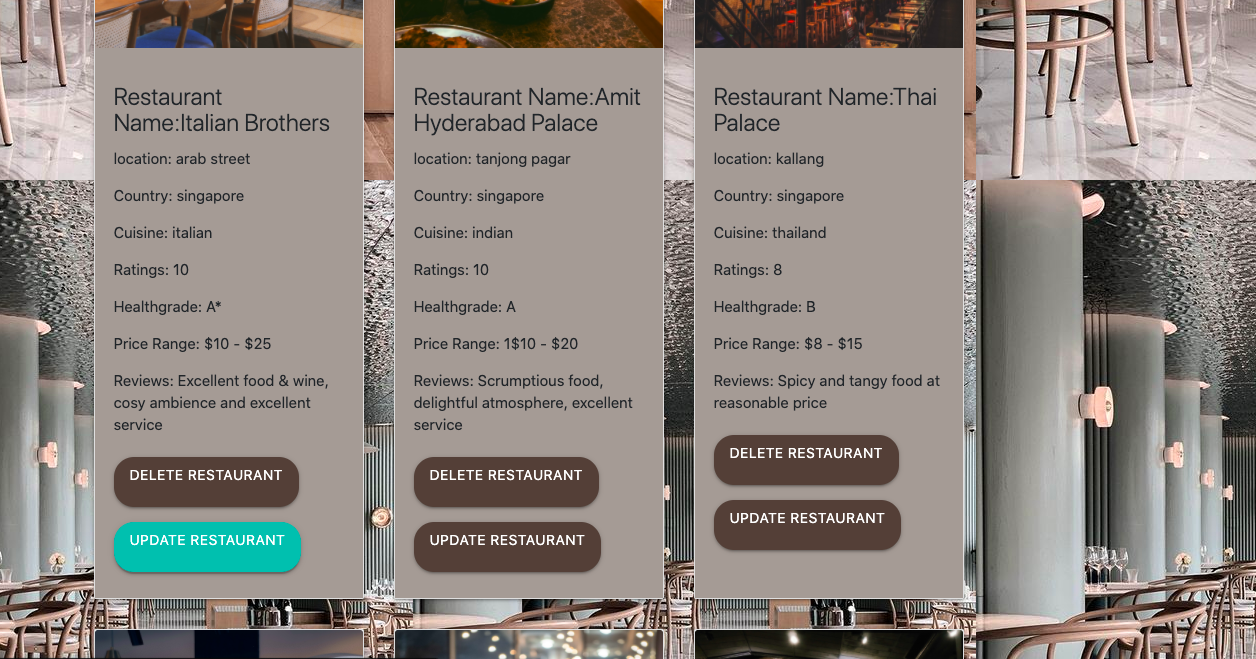
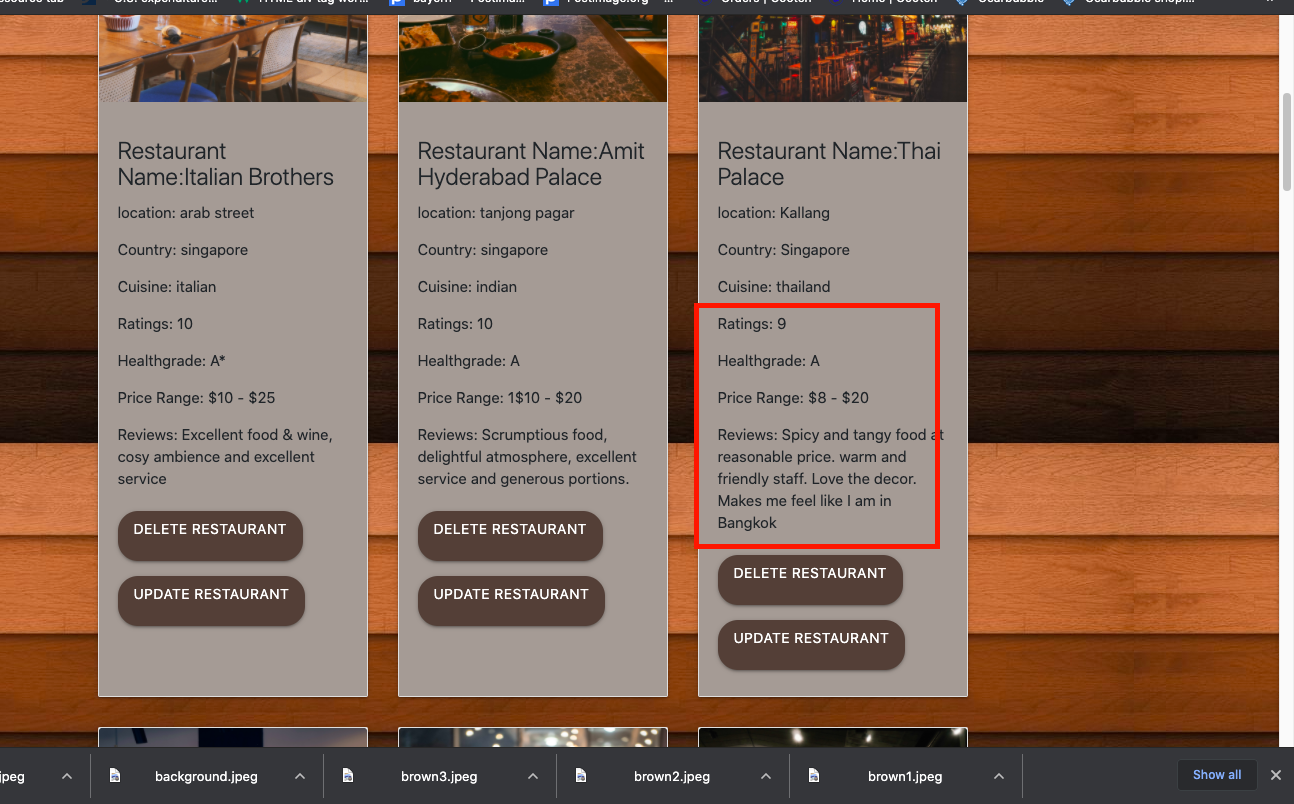
added screenshots on update feature

diff --git a/templates/update_restaurant.template.html b/templates/update_restaurant.template.html
@@ -14,20 +14,7 @@
         <input type="text" name="name" value="{{restaurant_to_edit.name}}" class="form-control" />
     </div>
 
-    <div>
-        <label class="form-label">Location:</label>
-        <input type="text" name="Address" value="{{restaurant_to_edit.location.Address}}" class="form-control" />
-    </div>
-
-    <div>
-        <label class="form-label">Country:</label>
-        <input type="text" name="Country" value="{{restaurant_to_edit.location.Country}}" class="form-control" />
-    </div>
-
-    <div>
-        <label class="form-label">Cuisine:</label>
-        <input type="text" name="flavour" value="{{restaurant_to_edit.cuisine.flavour}}" class="form-control" />
-    </div>
+     
 
     <div>
         <label class="form-label">Ratings: </label>
@@ -36,8 +23,10 @@
 
     <div>
         <label class="form-label">Healthgrade: </label>
-        <input type="text" name="healthgrade" value="{{restaurant_to_edit.Healthgrade}}" class="form-control" />
+        <input type="text" name="healthgrade" value="{{restaurant_to_edit.healthgrade}}" class="form-control" />
     </div>
+
+    
 
     <div>
         <label class="form-label">Price Range: </label>
@@ -48,10 +37,6 @@
         <label class="form-label">Reviews: </label>
         <input type="text" name="reviews" value="{{restaurant_to_edit.reviews}}" class="form-control" />
     </div>
-
-
-
-
 
 
     <input type="submit" value="Update Restaurant" class="mt-3 mb-3 btn btn-primary" />

diff --git a/app.py b/app.py
@@ -136,19 +136,19 @@ def update_restaurant(name_id):
 def process_update_restaurant(name_id):
     db.restaurantname.update_one({
         "_id": ObjectId(name_id)
-
-    }, 
-    
-    {
-
+    },  {
         '$set': request.form
+
+
+
     })
+
     return redirect(url_for('show_listings'))
 
     # routes the user to the feedback landing page
 
 
-@app.route('/feedback')
+@ app.route('/feedback')
 def show_comments():
 
     criteria = {}
@@ -167,12 +167,12 @@ def show_comments():
     # routes user to allow them to create feedback
 
 
-@app.route('/create2')
+@ app.route('/create2')
 def show_create_comment():
     return render_template('create_customer_feedback.template.html')
 
 
-@app.route('/create2', methods=["POST"])
+@ app.route('/create2', methods=["POST"])
 def process_create_comment():
     name = request.form.get('name')
     mobile = request.form.get('mobile')
@@ -192,7 +192,7 @@ def process_create_comment():
 # routes user to the deals landing page
 
 
-@app.route('/deals')
+@ app.route('/deals')
 def show_deals():
 
     criteria = {}

diff --git a/README.md b/README.md
@@ -119,9 +119,11 @@ Users can also leave a feedback and see their feedback after submitting the form
 
 Users are also able to update details on the restaurant.
 
+![picture](static/images/update.png)
+
 ![picture](static/images/updateform.png)
 
-![picture](static/images/update.png)
+![picture](static/images/updaterest.png)
 
 Clicking on the deals tab will allow the users to see the current promotion for the different ,but not all restaurants.
 
